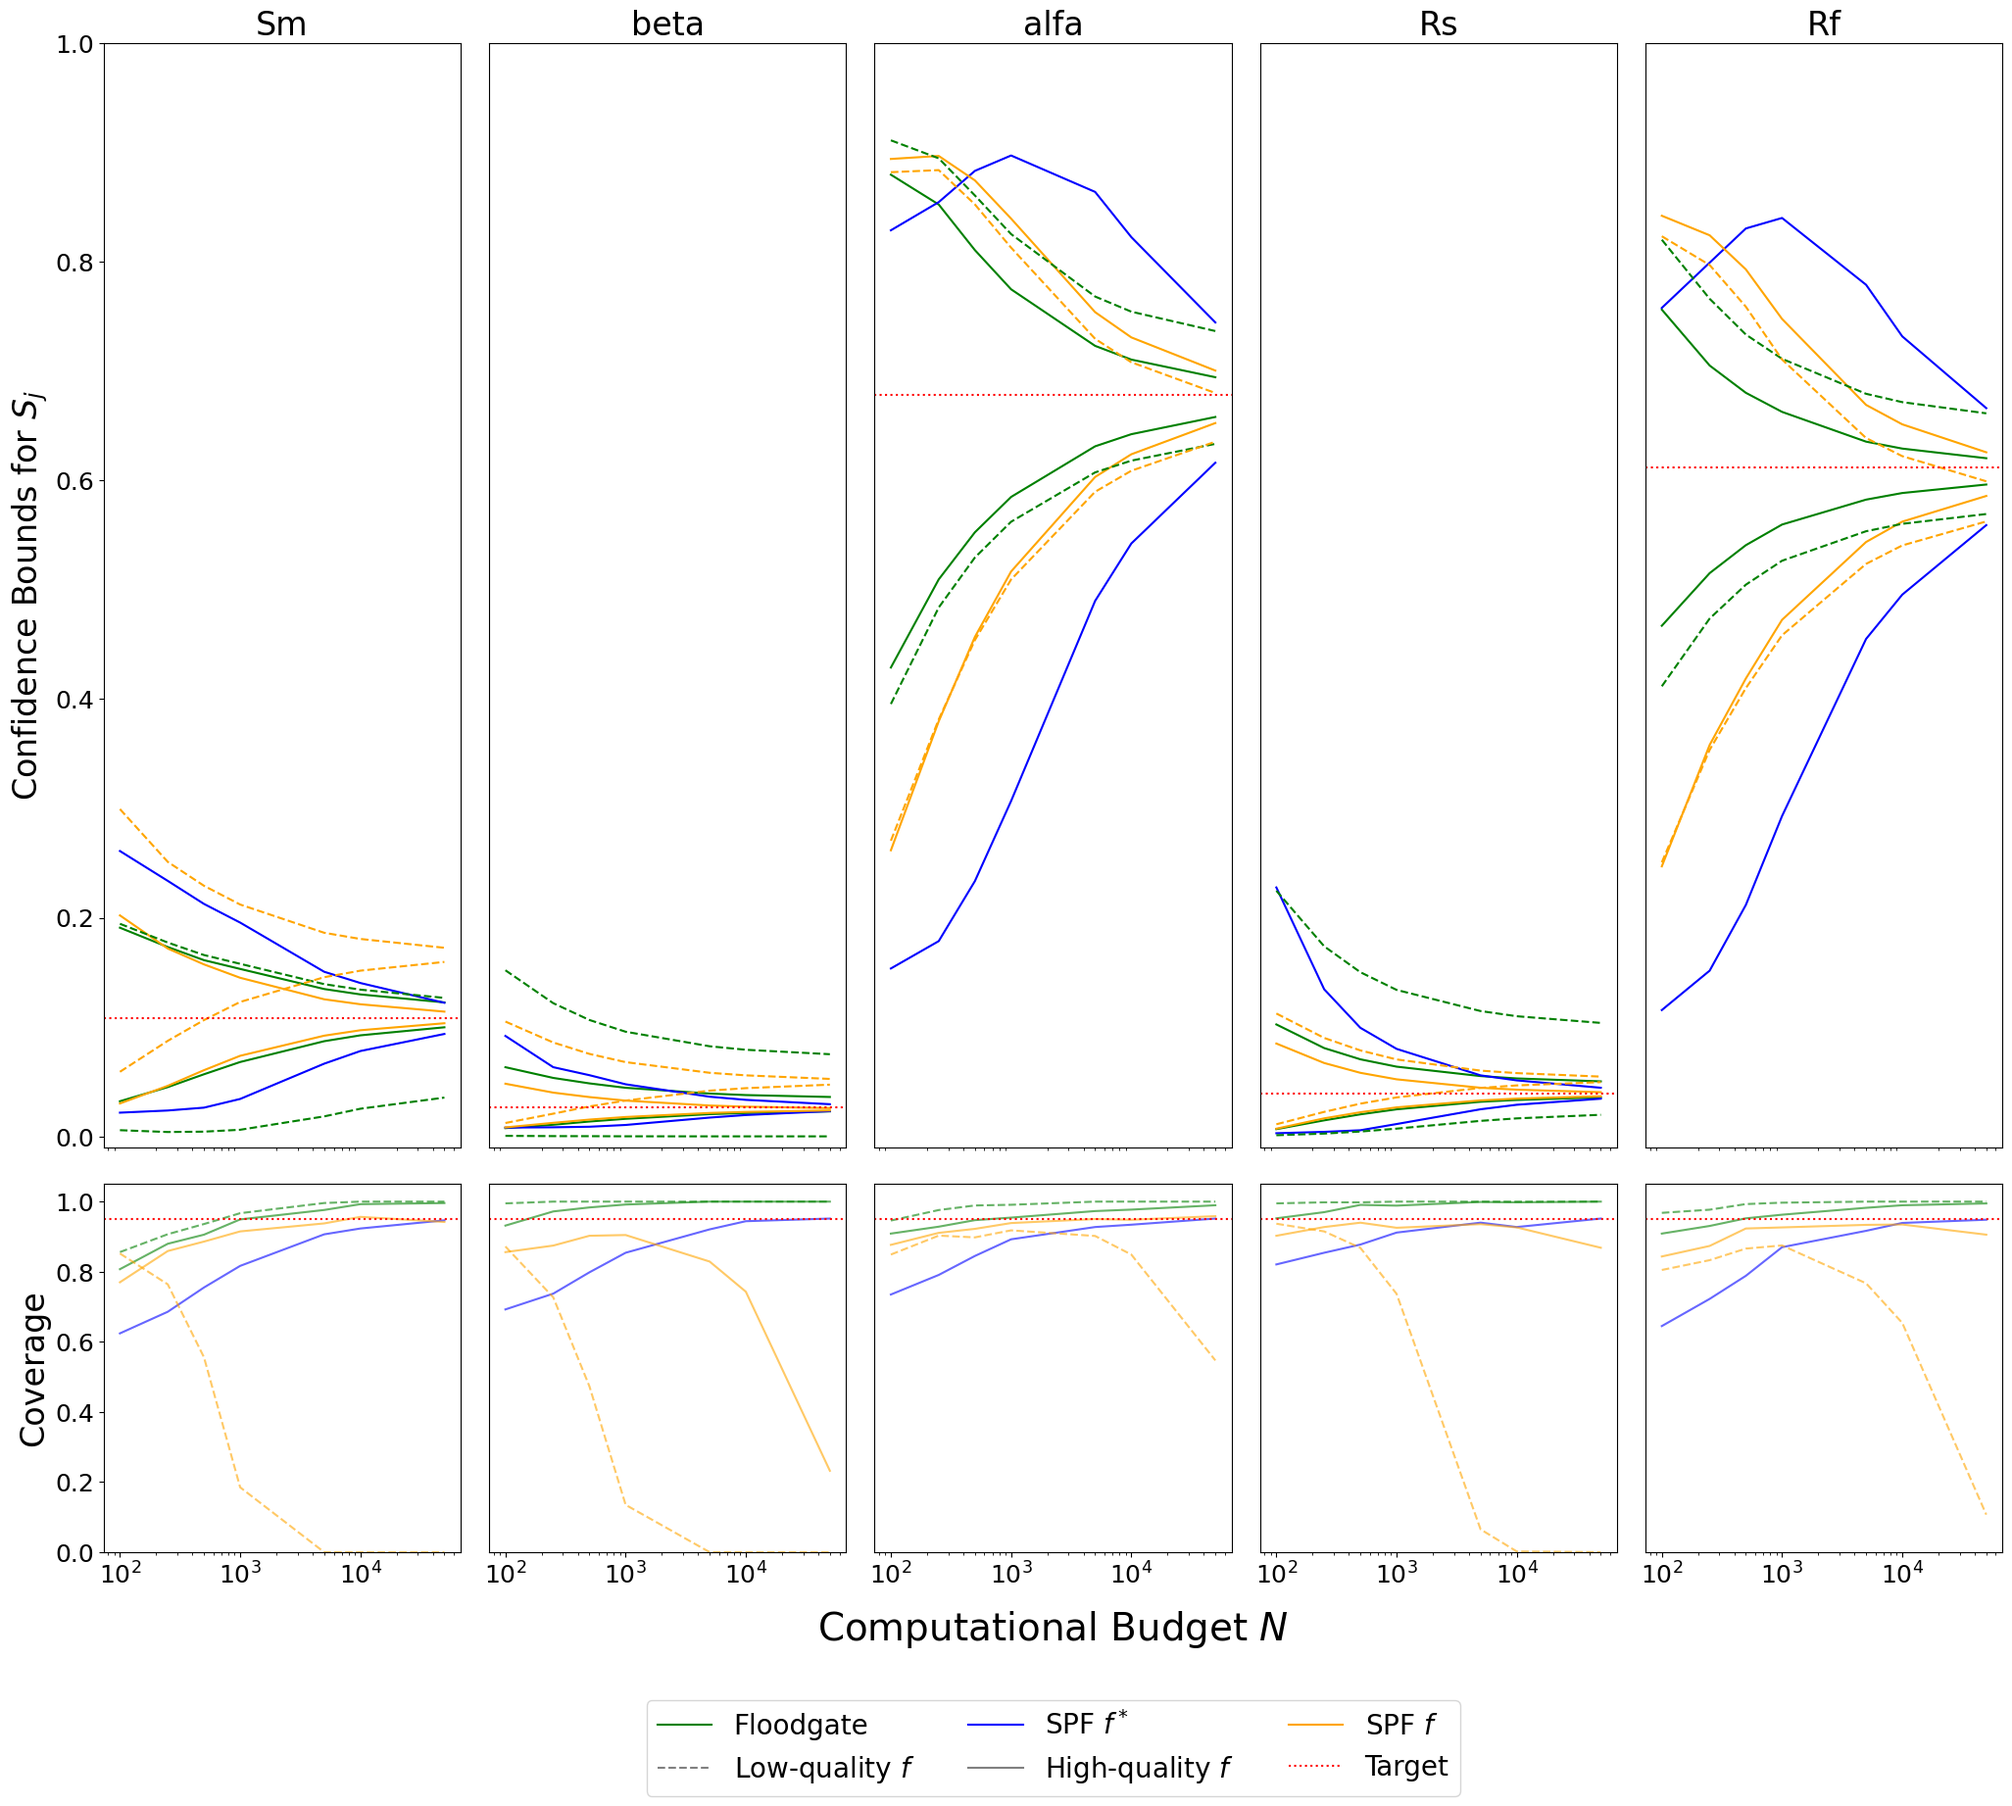
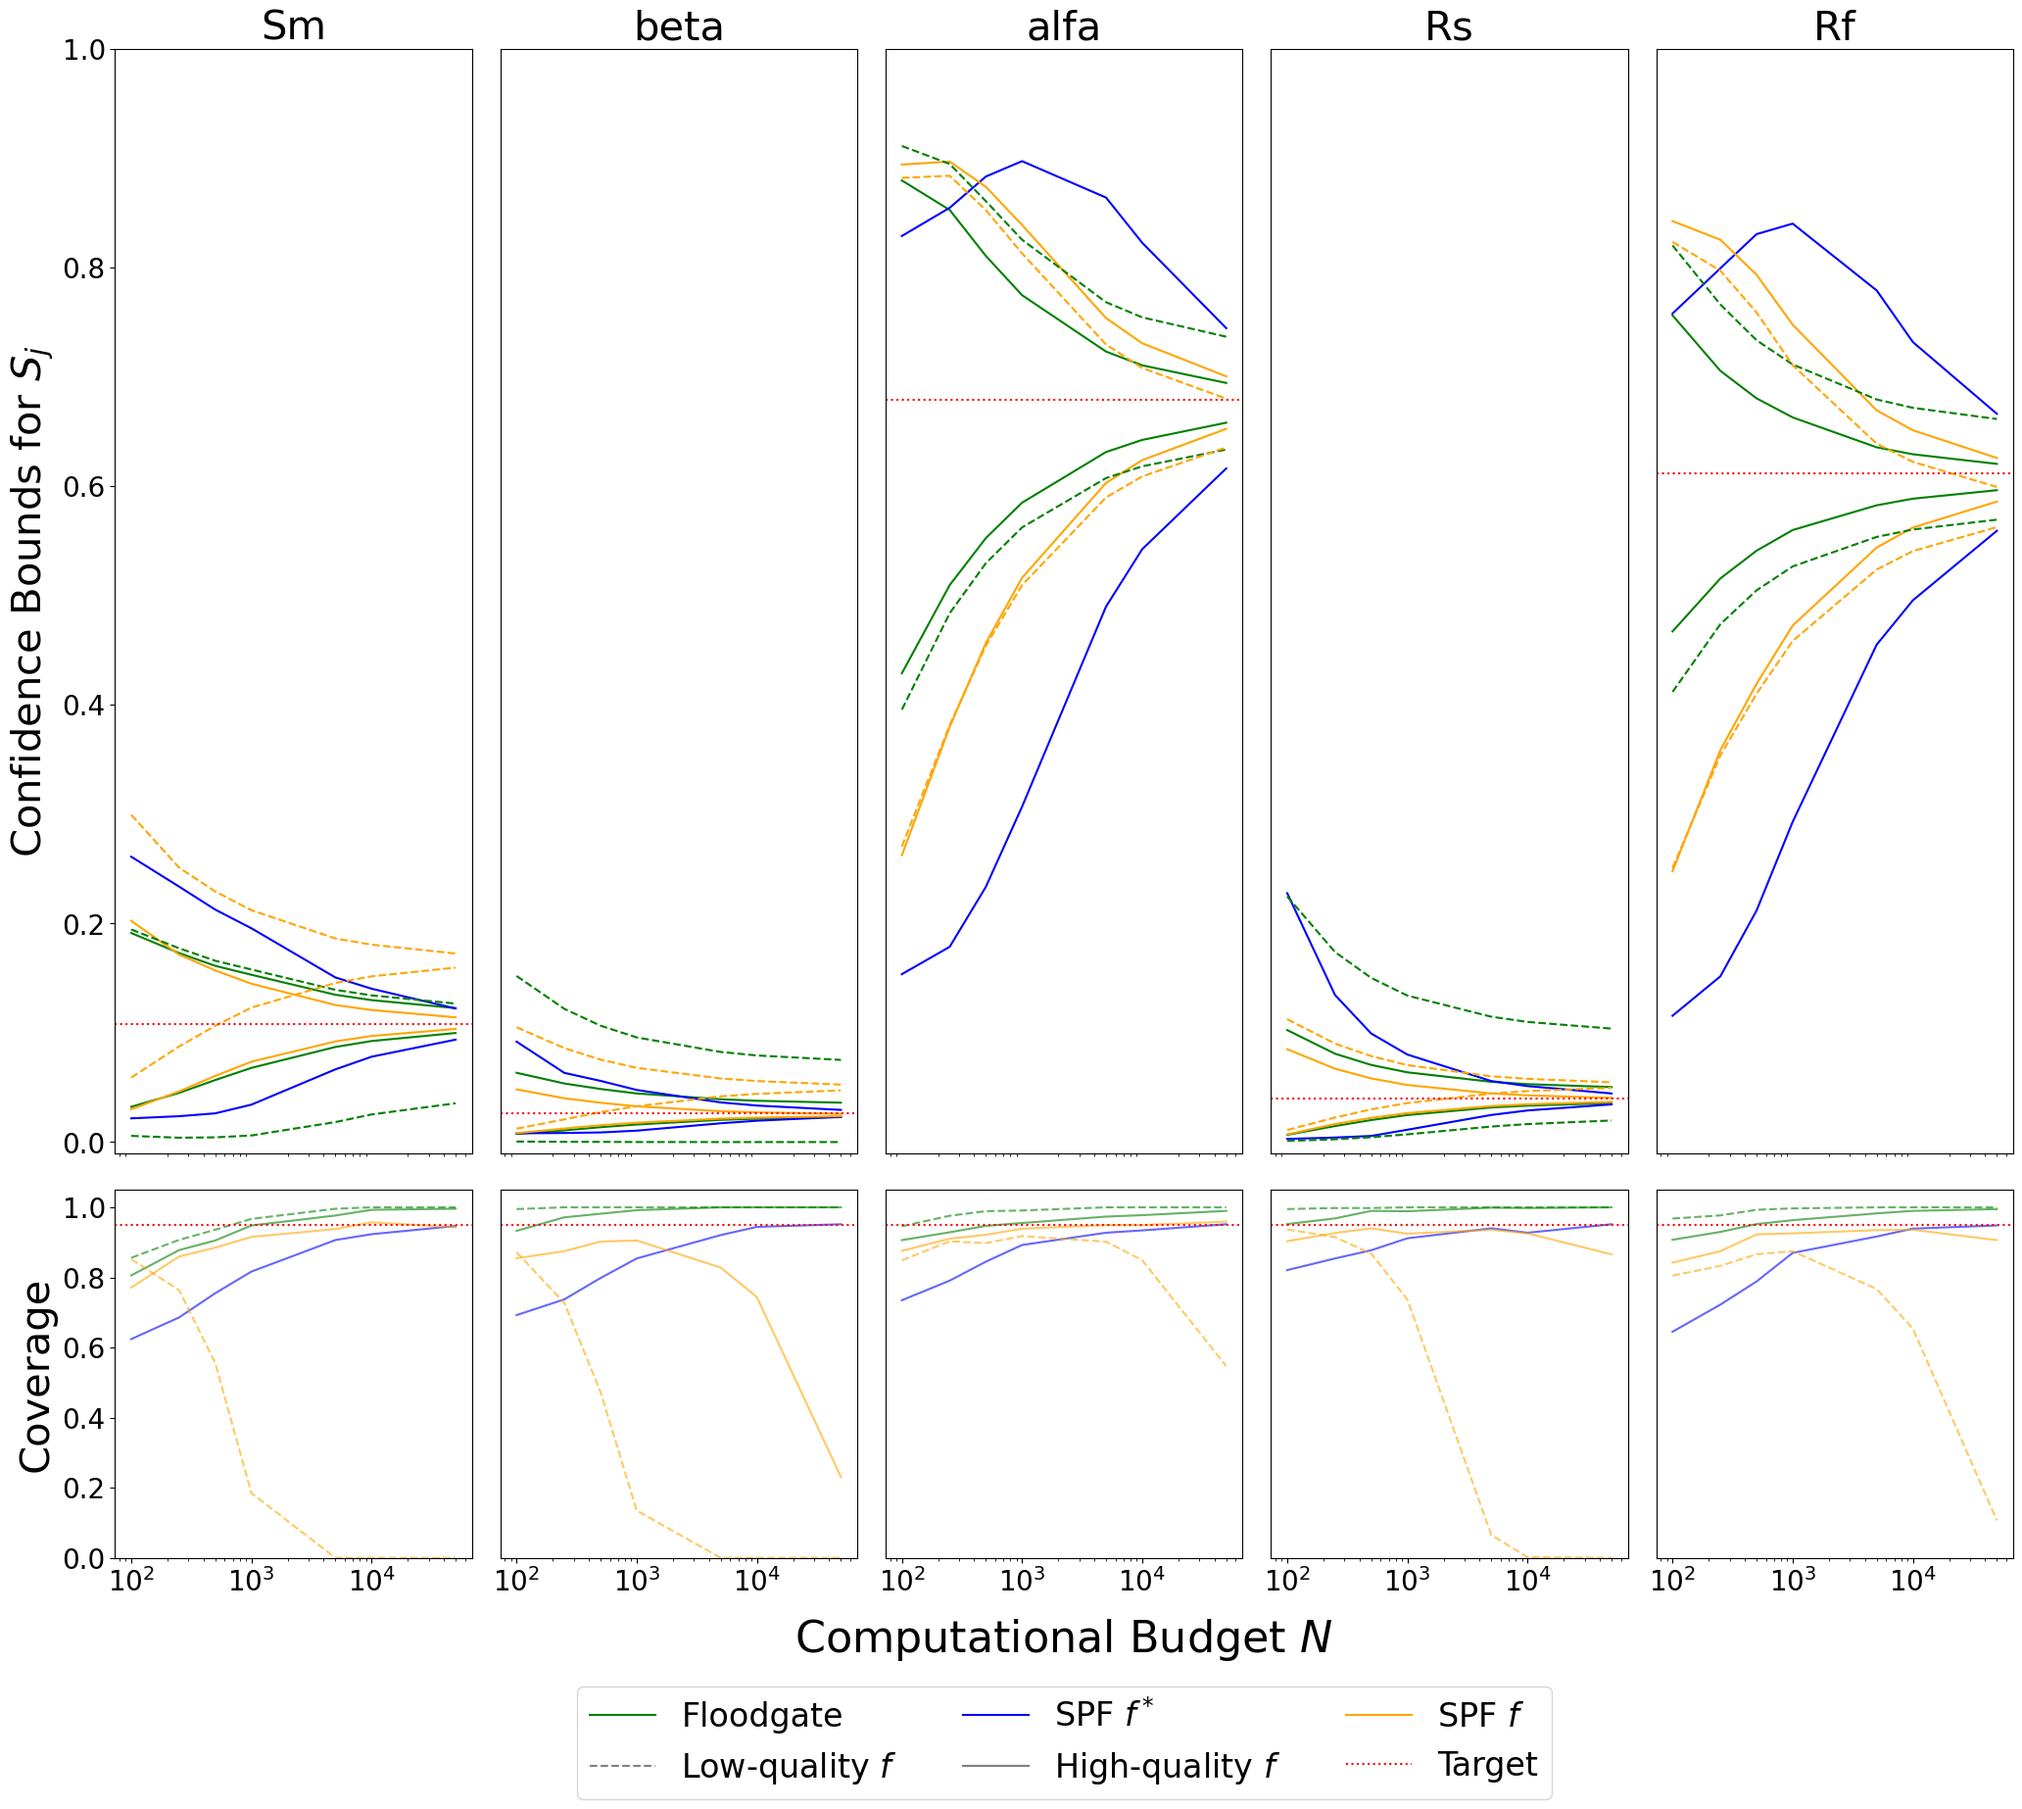
reformatted Hymod plots

diff --git a/plotting_scripts/Hymod.py b/plotting_scripts/Hymod.py
@@ -21,11 +21,11 @@ gt = np.load(DATA_DIR.format('.','.') + 'ground_truth.npy')
 
 
 # Plot formatting
-SMALL_SIZE = 10
-MEDIUM_SIZE = 18
-BIG_SIZE = 20
-BIGGER_SIZE = 24
-HUGE_SIZE = 28
+SMALL_SIZE = 12
+MEDIUM_SIZE = 20
+BIG_SIZE = 24
+BIGGER_SIZE = 30
+HUGE_SIZE = 32
 
 plt.rc('font', size=SMALL_SIZE)          # controls default text sizes
 plt.rc('axes', titlesize=BIGGER_SIZE)     # fontsize of the axes title
@@ -142,6 +142,22 @@ plt.savefig(FIG_DIR + 'Hymod_bounds.png', bbox_inches="tight")
 
 
 ### Figure 2 ###
+# Plot formatting
+SMALL_SIZE = 10
+MEDIUM_SIZE = 18
+BIG_SIZE = 20
+BIGGER_SIZE = 24
+HUGE_SIZE = 28
+
+plt.rc('font', size=SMALL_SIZE)          # controls default text sizes
+plt.rc('axes', titlesize=BIGGER_SIZE)     # fontsize of the axes title
+plt.rc('axes', labelsize=BIGGER_SIZE)    # fontsize of the x and y labels
+plt.rc('xtick', labelsize=MEDIUM_SIZE)    # fontsize of the tick labels
+plt.rc('ytick', labelsize=MEDIUM_SIZE)    # fontsize of the tick labels
+plt.rc('legend', fontsize=BIG_SIZE)    # legend fontsize
+plt.rc('figure', titlesize=BIGGER_SIZE)  # fontsize of the figure title
+
+
 fig, ax = plt.subplots(2, 5, figsize=(25,10))
 
 floodgate = []
@@ -217,7 +233,7 @@ for i in range(d):
 ax[0,0].set(ylabel='Width of \nConfidence Intervals')
 ax[1,0].set(ylabel='Coverage')
 ax[1,2].set_xlabel('Computational Budget $N$', fontsize=HUGE_SIZE)
-ax[0,2].legend(loc='lower center', bbox_to_anchor=(0.5, -1.85), ncol=3, fancybox=True)
+ax[0,2].legend(loc='lower center', bbox_to_anchor=(0.5, -1.7), ncol=3, fancybox=True)
 ax[1,2].xaxis.labelpad = 15
 fig.subplots_adjust(wspace=0.07, hspace=0.07)
 
